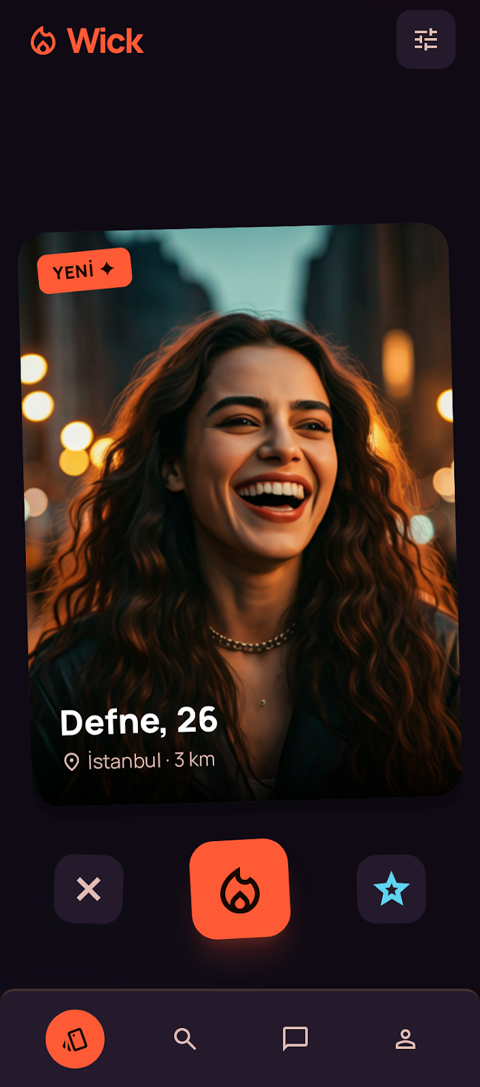
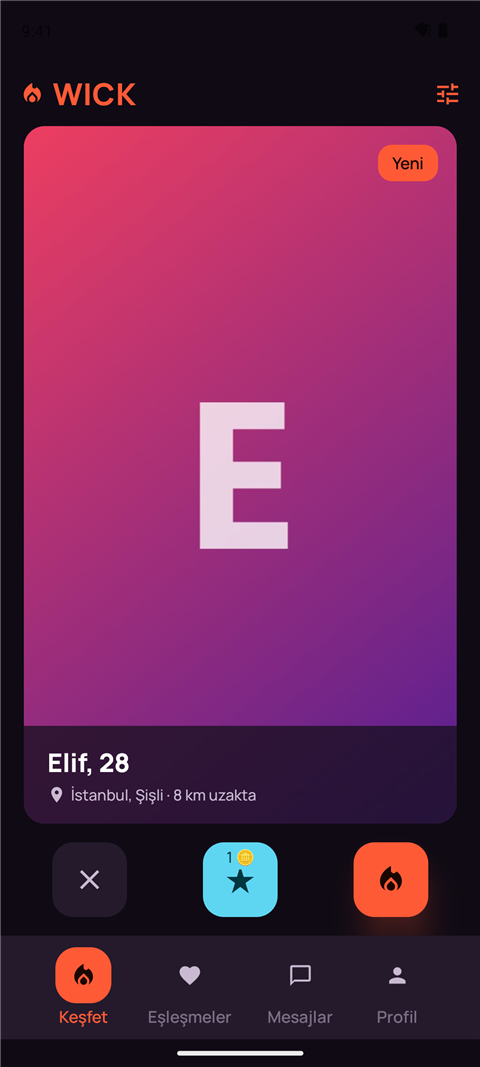
docs: replace design mockups with real app screenshots

diff --git a/README.md b/README.md
@@ -33,8 +33,6 @@ Wick replaces endless open-ended chats with **sessions that expire**. Two users 
 
 <p align="center"><sub>Sign in · Discover · Matches · Timed chat · Profile detail · Token wallet</sub></p>
 
-> These are the UI design screens the Android app is built from. The full set of 40+ screens lives in [`stitch_wick_login_interface_design 2/`](stitch_wick_login_interface_design%202/).
-
 ## Features
 
 - **Discover & swipe** — distance-aware discovery with age, distance and gender filters, plus super likes.
